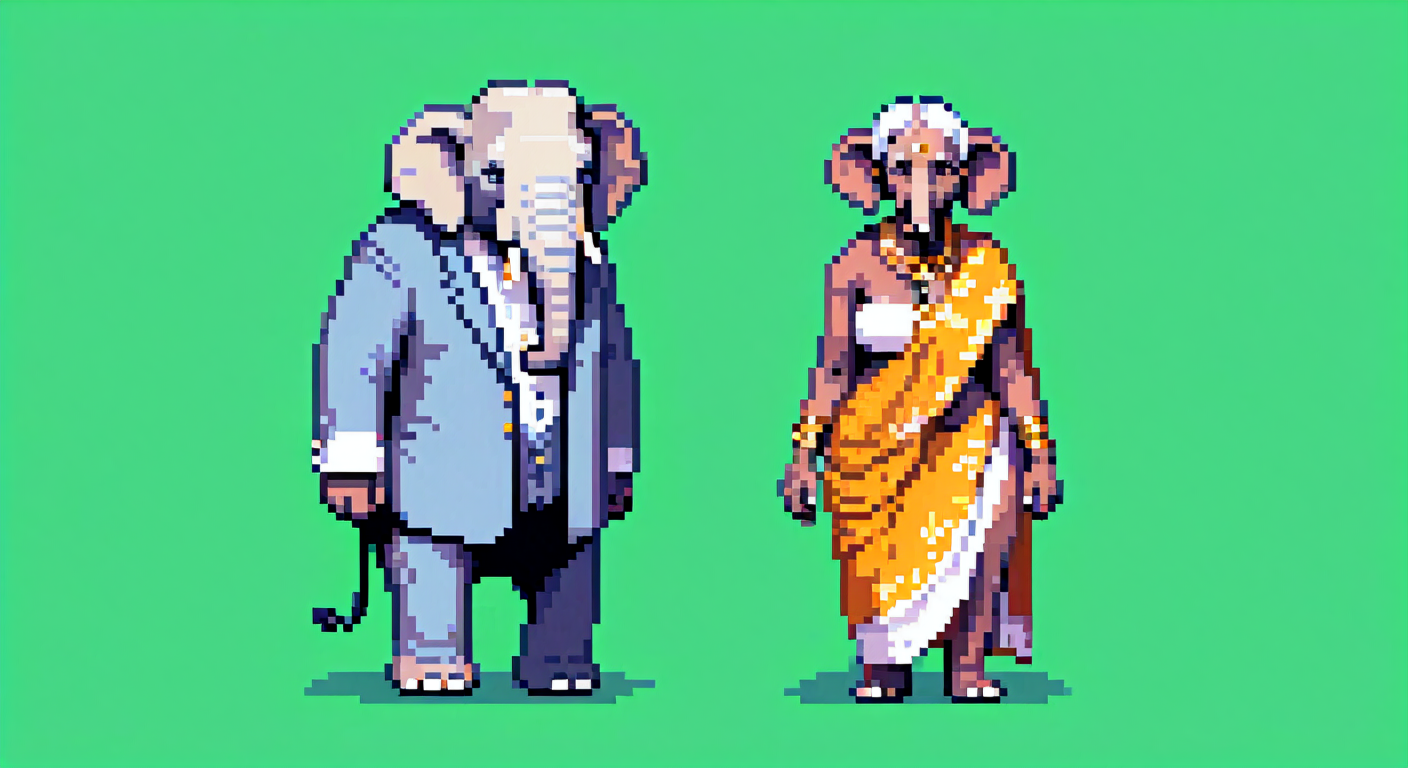
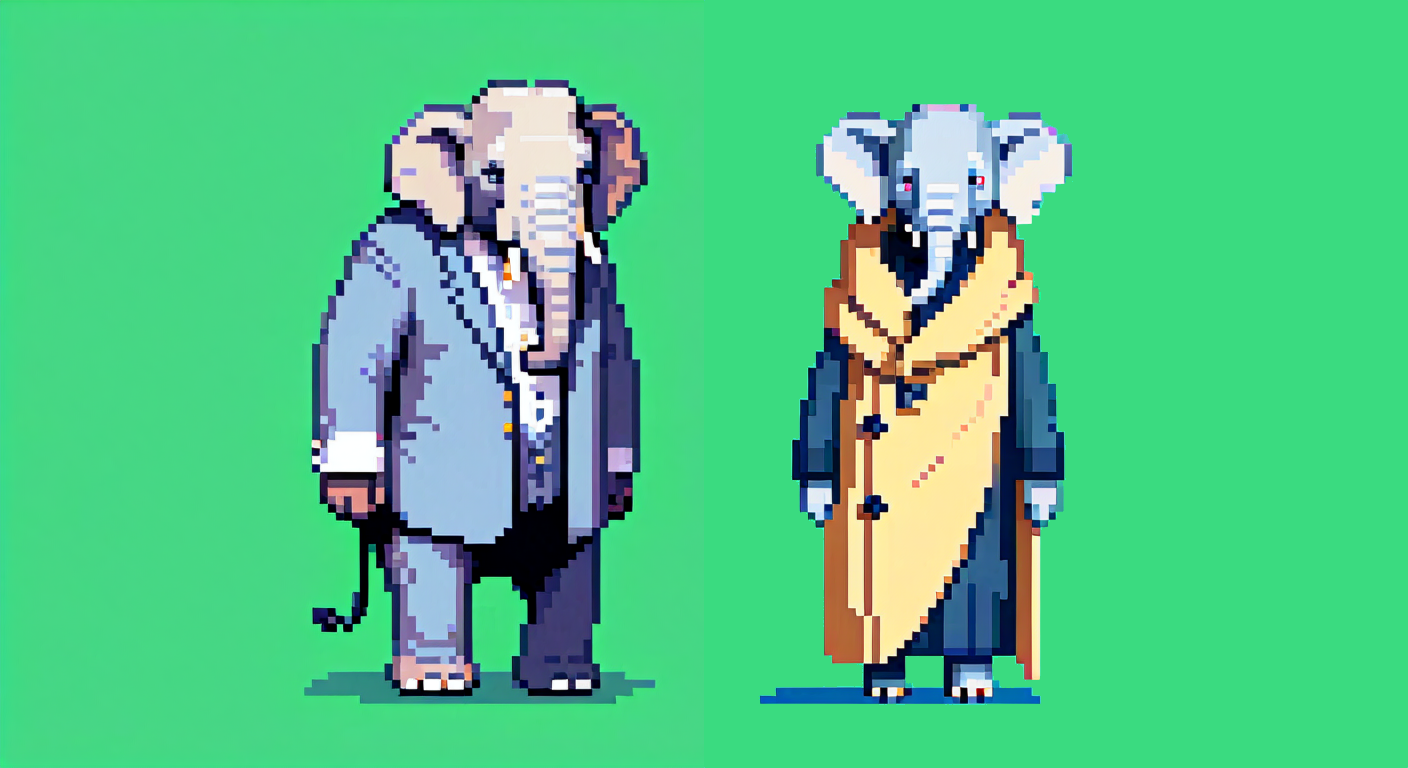
T-120: the old couple's wife in a plain shawl and dress (engine 7395922e1); Group 3 drafting added to tools/t120hoenn.py

Changed region(s): [[0.5312, 0.125, 0.7812, 0.9375]]

diff --git a/tools/t120hoenn.py b/tools/t120hoenn.py
@@ -5,6 +5,7 @@
     python3 tools/t120hoenn.py sheet OUT.png       # the drafts side by side with the FireRed portrait they come from
     python3 tools/t120hoenn.py draft2 [NAME ...]  # GROUP 2: two seeds of each, over a Group 1 portrait
     python3 tools/t120hoenn.py sheet2 OUT.png      # GROUP 2's drafts side by side
+    python3 tools/t120hoenn.py draft3|sheet3 ...   # GROUP 3, the same way
 
 GROUP 1 (the user, 2026-10-11: "redraw from our FireRed portrait", this group first): the 28 Hoenn copies of classes
 FireRed already has. A class is one animal (T-120), so each takes its FireRed twin's -- drawn image to image from OUR
@@ -89,6 +90,26 @@ GROUP2 = {
     "old_couple":               ("rs_young_couple", "an old elephant man and an old elephant woman side by side"),
 }
 
+# GROUP 3 (the user, 2026-10-12: "start group 3"): Hoenn's named people, drawn as GROUP 2 was. The animals are
+# PROPOSALS, judged by the user as pictures. NOT HERE, the user's to choose: the two rival teams (grunts, admins,
+# ARCHIE, MAXIE) and BRENDAN and MAY -- Hoenn's two player figures, which may be the grey monkey our own two are.
+GROUP3 = {
+    "leader_roxanne":       ("rs_lass",           "a young tortoise woman with glasses in a school uniform, holding a book"),
+    "leader_brawly":        ("rs_black_belt",     "a sea lion man in a surfer's rash vest and board shorts"),
+    "leader_wattson":       ("rs_hiker",          "a jolly old platypus man in work overalls with a tool belt"),
+    "leader_flannery":      ("rs_swimmer_f",      "a fire salamander young woman, black and orange, in a tank top and jeans"),
+    "leader_norman":        ("rs_gentleman",      "a labrador dog father in a sweater vest and slacks"),
+    "leader_winona":        ("rs_beauty",         "an osprey woman in a pilot's flight suit with a scarf"),
+    "leader_tate_and_liza": ("rs_twins",          "two young twin lemurs side by side, a boy and a girl, matching outfits"),
+    "leader_wallace":       ("rs_gentleman",      "a sea otter man in a flamboyant white cape and a fancy hat"),
+    "elite_four_sidney":    ("guitarist",         "a spotted hyena punk in a leather vest"),
+    "elite_four_phoebe":    ("rs_lass",           "a white barn owl girl in a simple dress with a bead necklace"),
+    "elite_four_glacia":    ("rs_lady",           "an arctic fox woman in a long white coat"),
+    "elite_four_drake":     ("rs_sailor",         "an old crocodile sea captain in a captain's coat"),
+    "champion_steven":      ("rs_gentleman",      "a pangolin man in a sharp grey suit"),
+    "wally":                ("rs_bug_catcher",    "a young fawn boy in a green shirt and shorts"),
+}
+
 
 def source(job):
     s = open(os.path.join(ROOT, "tools/gbachar.py")).read()
@@ -108,11 +129,12 @@ def draft(names):
             print("  %-24s %d %s" % (name, seed, "ok" if r.returncode == 0 else "FAILED " + r.stderr[-200:]), flush=True)
 
 
-def draft2(names):
-    for name in names or GROUP2:
-        base, what = GROUP2[name]
+def draft2(names, group=None, tag="g2"):
+    group = group or GROUP2
+    for name in names or group:
+        base, what = group[name]
         for seed in SEEDS:
-            out = "%s/g2_%s_%d" % (OUT, name, seed)
+            out = "%s/%s_%s_%d" % (OUT, tag, name, seed)
             if os.path.exists(os.path.join(ROOT, out + ".png")):
                 continue
             r = subprocess.run([sys.executable, "tools/spriteforge.py", "i2i", "--out", out,
@@ -122,21 +144,22 @@ def draft2(names):
             print("  %-24s %d %s" % (name, seed, "ok" if r.returncode == 0 else "FAILED " + r.stderr[-200:]), flush=True)
 
 
-def sheet2(out):
+def sheet2(out, group=None, tag="g2"):
     from PIL import Image, ImageDraw
-    rows = list(GROUP2)
+    group = group or GROUP2
+    rows = list(group)
     W = 2 * 200 + 20
     img = Image.new("RGB", (W * 3, (len(rows) + 2) // 3 * 220 + 10), (24, 24, 32))
     d = ImageDraw.Draw(img)
     for k, name in enumerate(rows):
         x0, y0 = (k % 3) * W + 5, (k // 3) * 220 + 5
         for i, s in enumerate(SEEDS):
-            p = os.path.join(ROOT, "%s/g2_%s_%d.png" % (OUT, name, s))
+            p = os.path.join(ROOT, "%s/%s_%s_%d.png" % (OUT, tag, name, s))
             if os.path.exists(p):
                 im = Image.open(p).convert("RGB")
                 im.thumbnail((190, 190))
                 img.paste(im, (x0 + i * 200, y0 + 18))
-        d.text((x0, y0 + 2), "%s  (over %s; %d / %d)" % (name, GROUP2[name][0][3:], SEEDS[0], SEEDS[1]), fill="white")
+        d.text((x0, y0 + 2), "%s  (over %s; %d / %d)" % (name, group[name][0].replace("rs_", ""), SEEDS[0], SEEDS[1]), fill="white")
     img.save(out)
 
 
@@ -168,5 +191,9 @@ if __name__ == "__main__":
         draft2(sys.argv[2:])
     elif sys.argv[1:2] == ["sheet2"]:
         sheet2(sys.argv[2])
+    elif sys.argv[1:2] == ["draft3"]:
+        draft2(sys.argv[2:], GROUP3, "g3")
+    elif sys.argv[1:2] == ["sheet3"]:
+        sheet2(sys.argv[2], GROUP3, "g3")
     else:
         sys.exit(__doc__)

diff --git a/tools/gbachar.py b/tools/gbachar.py
@@ -644,7 +644,7 @@ JOBS = {
                         dst="engineGba/graphics/trainers/front_pics/cycling_triathlete_f_front_pic.png",
                         pal="engineGba/graphics/trainers/palettes/cycling_triathlete_f.pal",
                         size=(64, 64), colours=15, base=1, palsize=16, hue=False),
-    "h_old_couple": dict(src="gfx/characters/hoenn/old_couple.png",     # an old elephant man and an old elephant woman side by side, redrawn (seed 13004)
+    "h_old_couple": dict(src="gfx/characters/hoenn/old_couple.png",     # two old elephants, redrawn (seed 13004; her half 13010, a plain shawl and dress)
                         dst="engineGba/graphics/trainers/front_pics/old_couple_front_pic.png",
                         pal="engineGba/graphics/trainers/palettes/old_couple.pal",
                         size=(64, 64), colours=15, base=1, palsize=16, hue=False),

diff --git a/qa/screenshots/2026-10-11/README.md b/qa/screenshots/2026-10-11/README.md
@@ -85,3 +85,21 @@ T-120: the three Group 2 redraws, seeds 13003-13005; picked cycling F 13005, old
 C-111 in the iOS Simulator, a scratch copy of a save: 'Or host it on this phone alone', the party painted on the phone, the widget hosting CAREMUSAI, and SETTINGS for a phone alone. Taken before two fixes: the handheld cards now step aside, and the gap in the settings text is gone.
 
 ![11Oct2026 - C111 - the phone hosting on its own - 14](11Oct2026%20-%20C111%20-%20the%20phone%20hosting%20on%20its%20own%20-%2014.png)
+
+### 11Oct2026 - C113 - widget dens - 15
+
+C-113: the phone widget's dens, one per type, and the sizes -- drawn on the Mac from the real sprites by the widget's own SwiftUI, not yet on the phone
+
+![11Oct2026 - C113 - widget dens - 15](11Oct2026%20-%20C113%20-%20widget%20dens%20-%2015.png)
+
+### 11Oct2026 - C113 - widget dens - 16
+
+C-113: the phone widget's dens, one per type, and the sizes -- drawn on the Mac from the real sprites by the widget's own SwiftUI, not yet on the phone
+
+![11Oct2026 - C113 - widget dens - 16](11Oct2026%20-%20C113%20-%20widget%20dens%20-%2016.png)
+
+### 11Oct2026 - C113 - widget at every size - 17
+
+C-113: the widget at the smallest and largest iPhone sizes, after the responsive pass
+
+![11Oct2026 - C113 - widget at every size - 17](11Oct2026%20-%20C113%20-%20widget%20at%20every%20size%20-%2017.png)

diff --git a/qa/screenshots/2026-10-12/README.md b/qa/screenshots/2026-10-12/README.md
@@ -1,0 +1,9 @@
+# QA screenshots, 2026-10-12
+
+In the order they were taken, each with the caption it was sent with. Every word in them is a DRAFT until approved.
+
+### 12Oct2026 - T120 - old couple in a shawl - 1
+
+T-120: the old couple recut, her in a plain shawl and dress (64x64 at 6x)
+
+![12Oct2026 - T120 - old couple in a shawl - 1](12Oct2026%20-%20T120%20-%20old%20couple%20in%20a%20shawl%20-%201.png)
